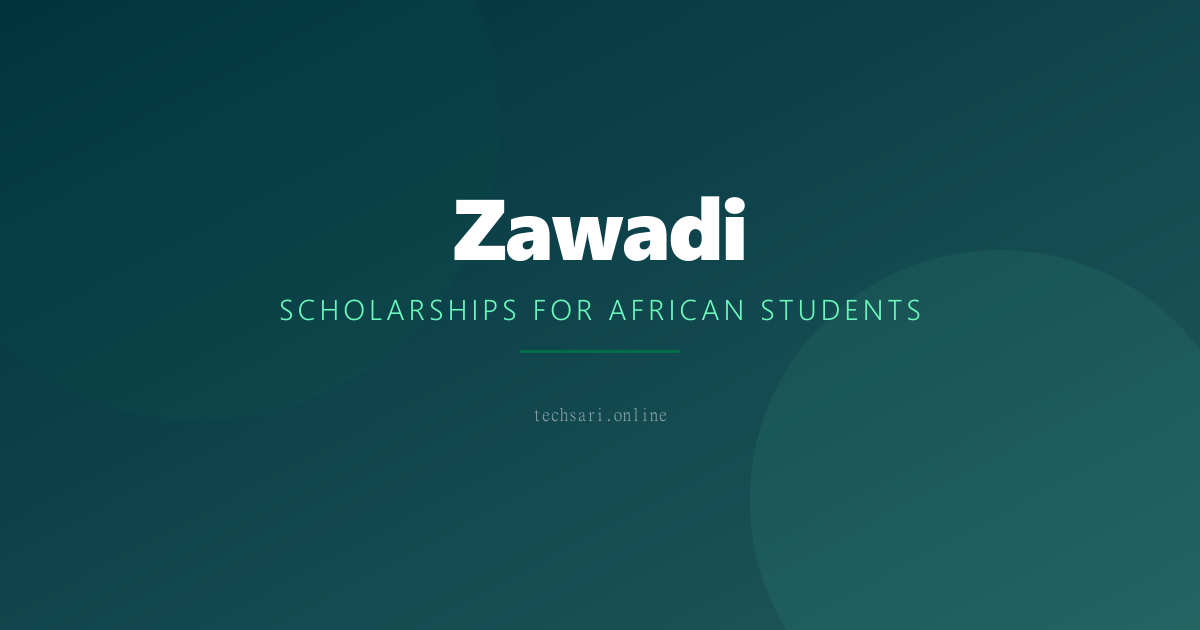
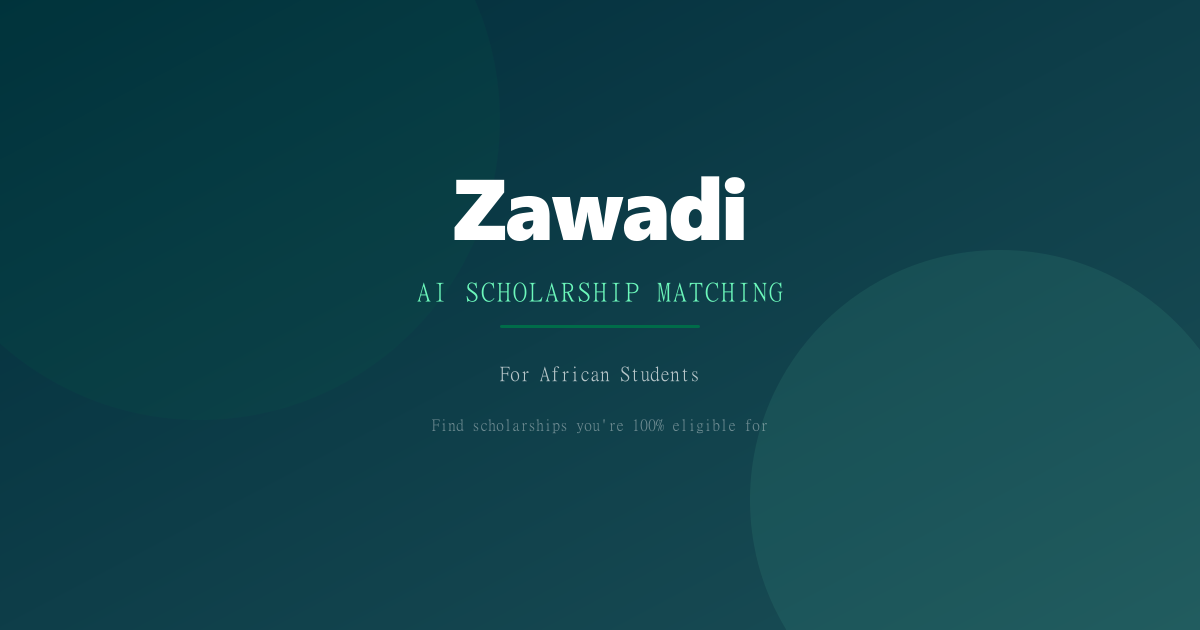
Update SEO meta tags, OG image, and tagline across site

Changed region(s): [[0.2158, 0.4524, 0.7708, 0.6032], [0.37, 0.2714, 0.6167, 0.4222], [0.37, 0.6333, 0.6167, 0.6937]]

diff --git a/index.html b/index.html
@@ -3,8 +3,8 @@
   <head>
     <meta charset="UTF-8" />
     <meta name="viewport" content="width=device-width, initial-scale=1.0" />
-    <title>Scholarships for African Students — Zawadi</title>
-    <meta name="description" content="Find scholarships you qualify for across all 54 African countries. Deterministic matching, No-IELTS filter, AI essay help. Free for students." />
+    <title>Zawadi — Find Scholarships You're 100% Eligible For | African Students</title>
+    <meta name="description" content="Zawadi uses AI to match African students with scholarships they actually qualify for. Stop wasting time on applications you won't win. Find your match in minutes." />
     <meta name="theme-color" content="#001736" />
     <meta name="apple-mobile-web-app-capable" content="yes" />
     <meta name="apple-mobile-web-app-status-bar-style" content="default" />
@@ -15,17 +15,16 @@
     <link rel="apple-touch-icon" sizes="192x192" href="/pwa-icon-192.png" />
     <link rel="apple-touch-icon" sizes="512x512" href="/pwa-icon-512.png" />
 
+    <meta property="og:title" content="Zawadi — AI Scholarship Matching for African Students" />
+    <meta property="og:description" content="Find scholarships you're 100% eligible for. Built exclusively for African students." />
+    <meta property="og:image" content="https://techsari.online/og-image.png" />
+    <meta property="og:url" content="https://techsari.online" />
     <meta property="og:type" content="website" />
-    <meta property="og:url" content="https://www.techsari.online/" />
-    <meta property="og:title" content="Scholarships for African Students — Zawadi" />
-    <meta property="og:description" content="Find scholarships you qualify for across all 54 African countries. Deterministic matching, No-IELTS filter, AI essay help. Free for students." />
-    <meta property="og:image" content="https://www.techsari.online/og-image.png" />
-    <meta property="og:site_name" content="Techsari Zawadi" />
 
     <meta name="twitter:card" content="summary_large_image" />
-    <meta name="twitter:title" content="Scholarships for African Students — Zawadi" />
-    <meta name="twitter:description" content="Find scholarships you qualify for across all 54 African countries. Deterministic matching, No-IELTS filter, AI essay help. Free for students." />
-    <meta name="twitter:image" content="https://www.techsari.online/og-image.png" />
+    <meta name="twitter:title" content="Zawadi — AI Scholarship Matching for African Students" />
+    <meta name="twitter:description" content="Find scholarships you're 100% eligible for. Built exclusively for African students." />
+    <meta name="twitter:image" content="https://techsari.online/og-image.png" />
 
     <link rel="preconnect" href="https://js.paystack.com" />
     <link rel="preconnect" href="https://api.openrouter.ai" />

diff --git a/src/components/LandingPage.tsx b/src/components/LandingPage.tsx
@@ -153,8 +153,8 @@ export default function LandingPage({ onGetStarted, onLogin, countries, onViewAl
   return (
     <div className="bg-background text-on-background min-h-screen">
       <SEO
-        title="Scholarships for African Students — Zawadi"
-        description="Find scholarships you qualify for across all 54 African countries. Deterministic matching, No-IELTS filter, AI essay help. Free for students."
+        title="Zawadi — Find Scholarships You're 100% Eligible For | African Students"
+        description="Zawadi uses AI to match African students with scholarships they actually qualify for. Stop wasting time on applications you won't win. Find your match in minutes."
         path="/"
         schema={organizationSchema}
       />

diff --git a/src/components/SEO.tsx b/src/components/SEO.tsx
@@ -1,7 +1,7 @@
 import { Helmet } from 'react-helmet-async';
 
-const SITE_URL = 'https://www.techsari.online';
-const OG_IMAGE = 'https://www.techsari.online/og-image.png';
+const SITE_URL = 'https://techsari.online';
+const OG_IMAGE = 'https://techsari.online/og-image.png';
 const TWITTER_HANDLE = '@techsari';
 
 interface SEOMeta {